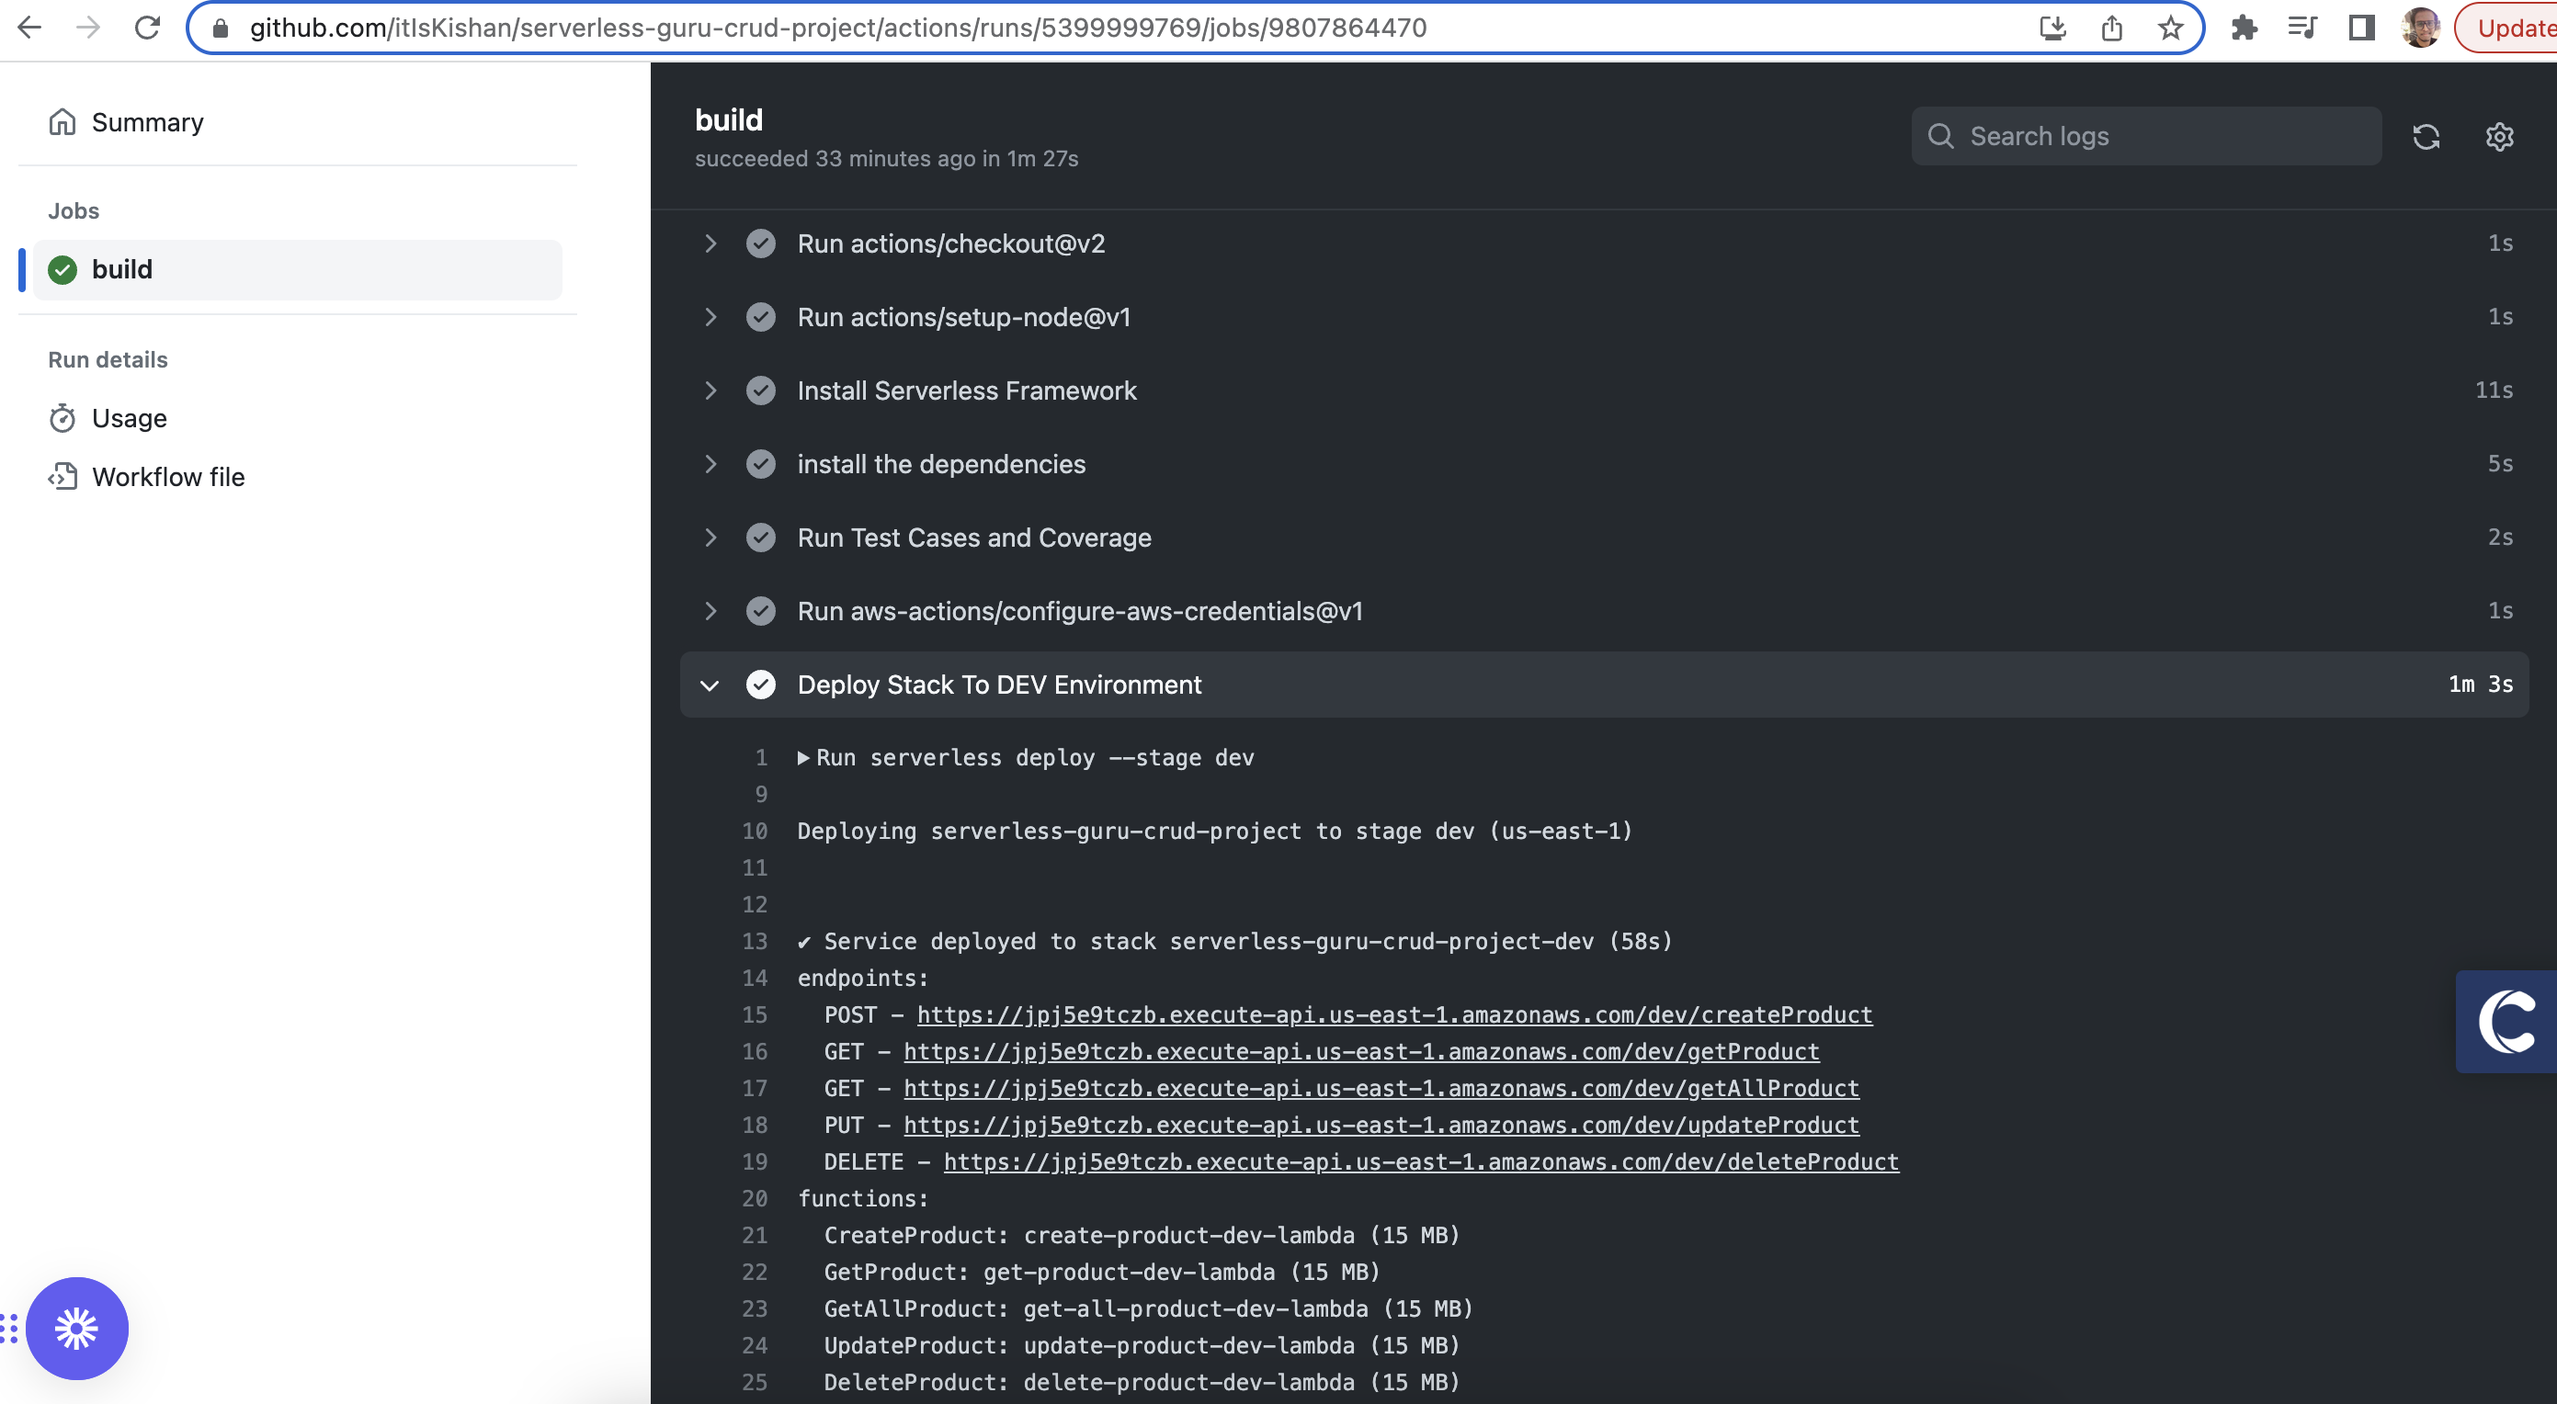
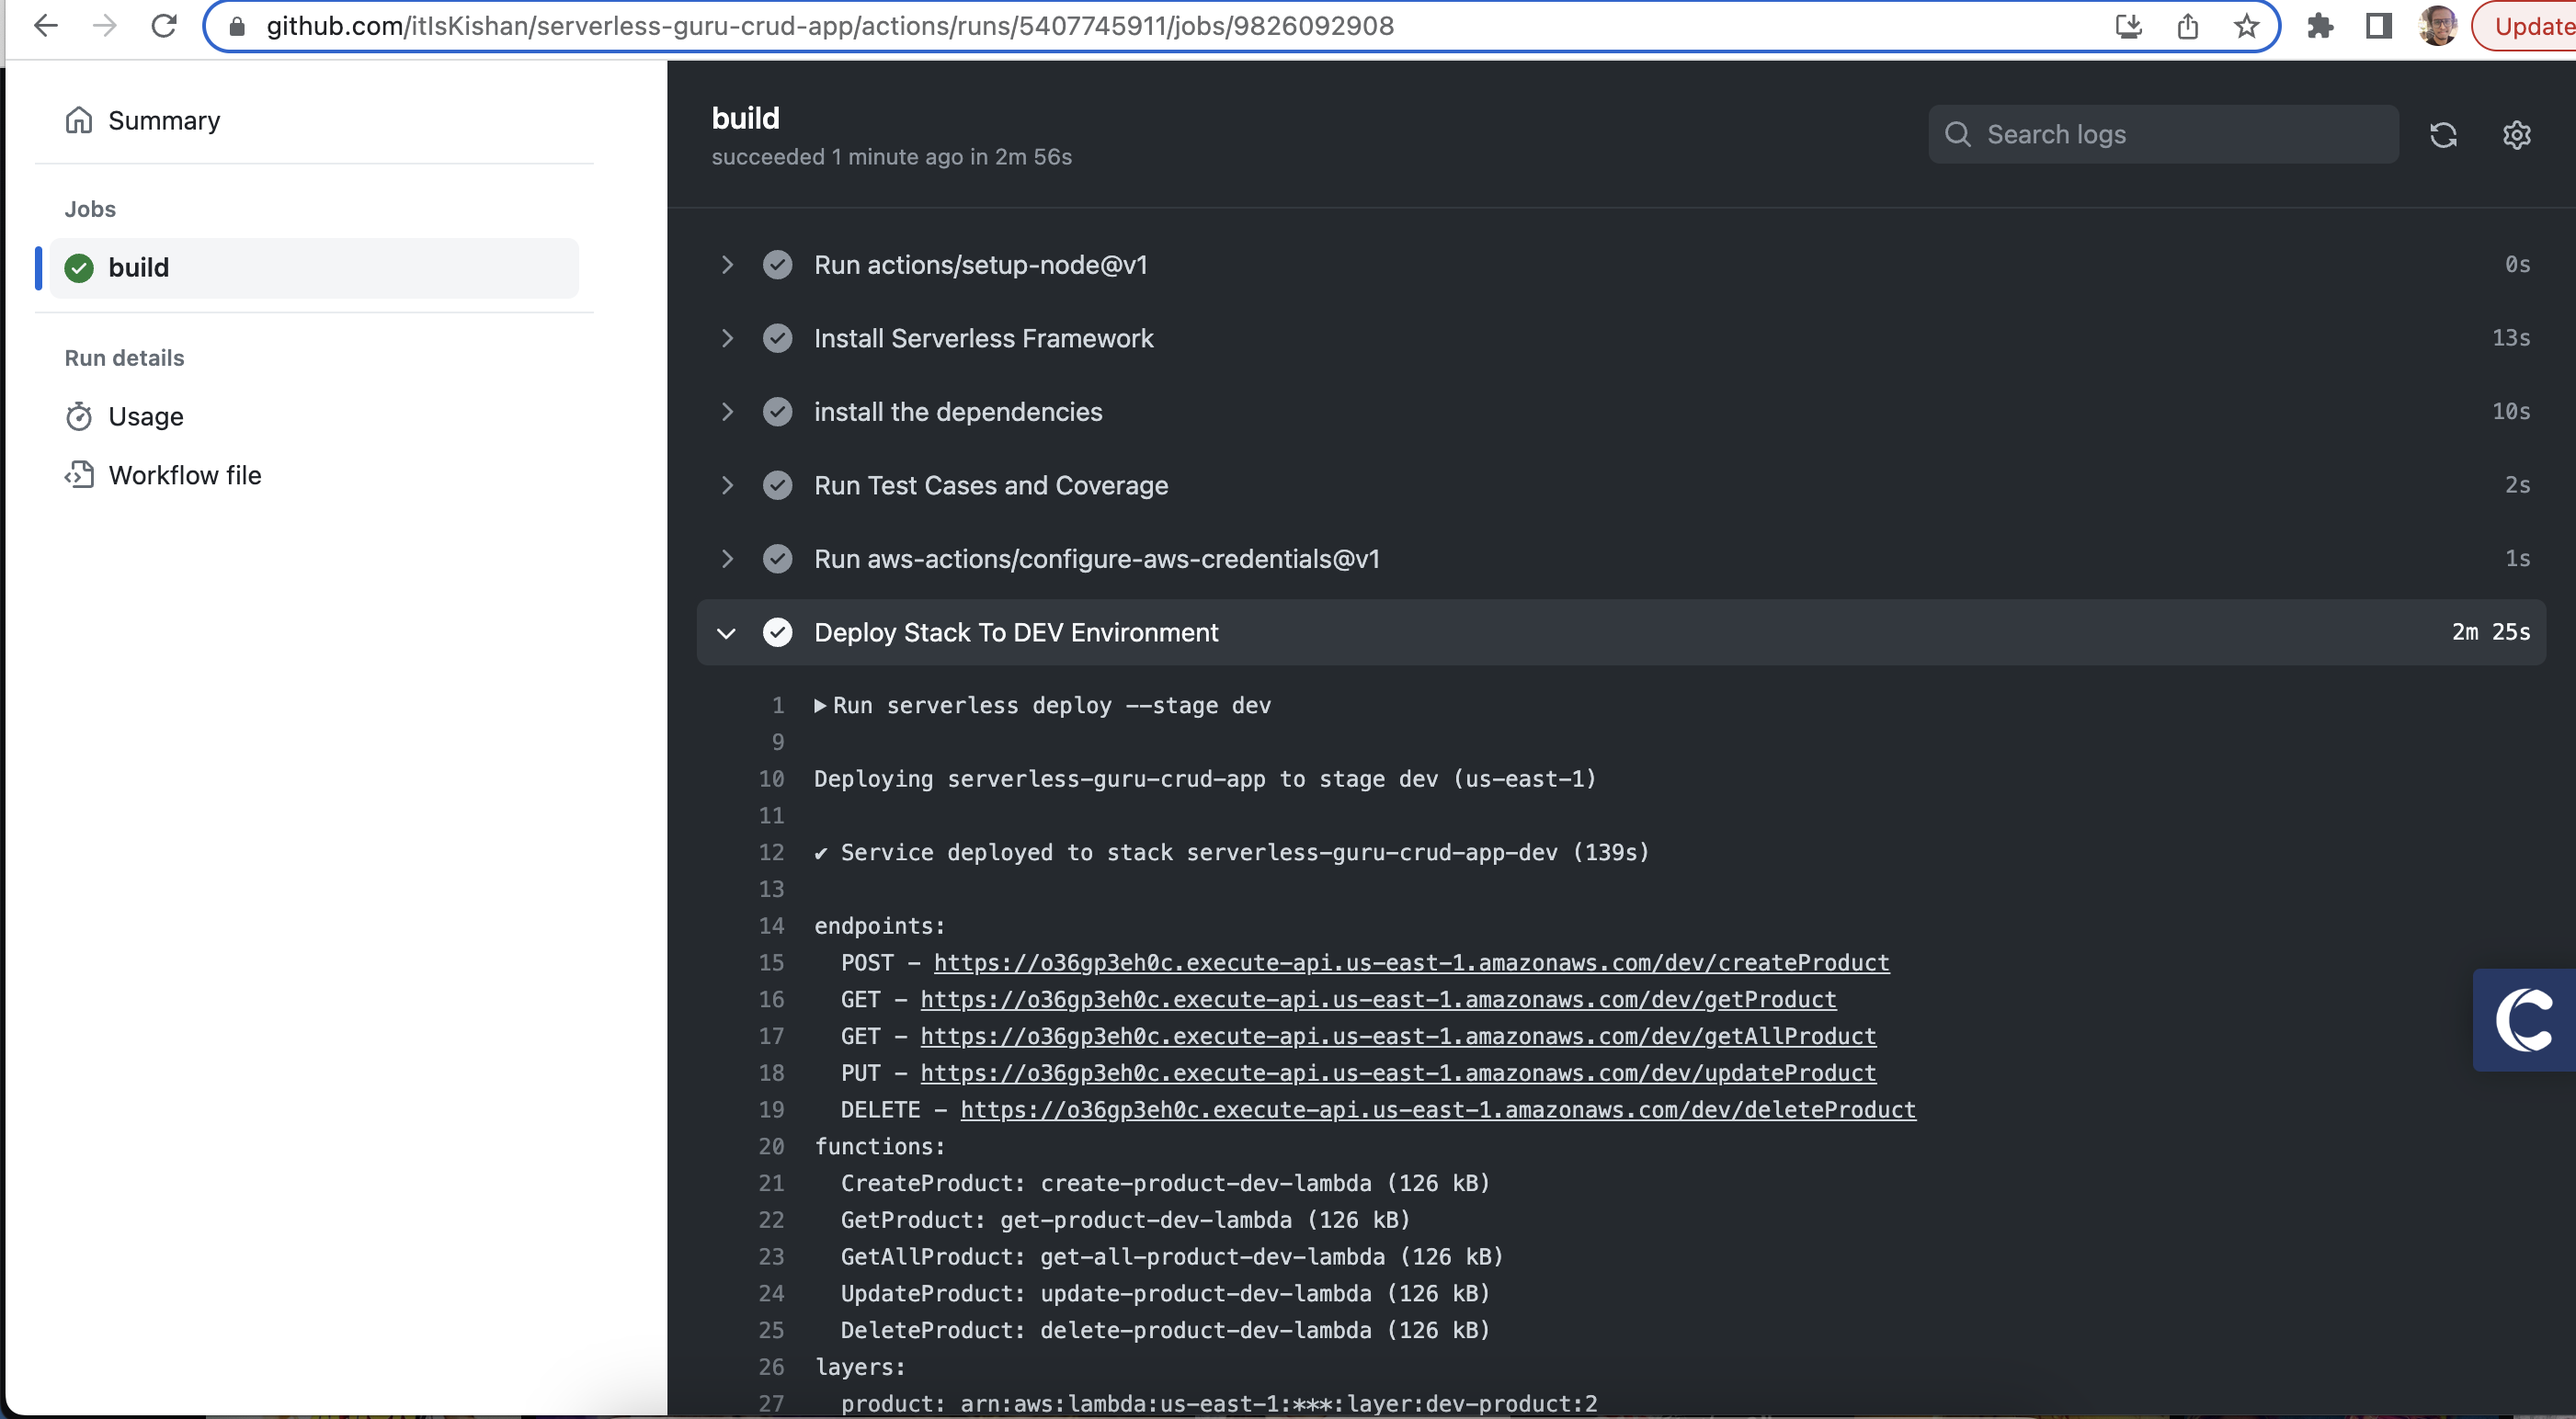
feat: added the dev ci/cd screenshot

diff --git a/README.md b/README.md
@@ -88,7 +88,7 @@ serverless deploy --stage prod
 If you want to use my API and test in postman use the below API:
 
 ```
-DEV: https://jpj5e9tczb.execute-api.us-east-1.amazonaws.com/dev/
+DEV: https://o36gp3eh0c.execute-api.us-east-1.amazonaws.com/dev/
 PROD: https://957o0k4up4.execute-api.us-east-1.amazonaws.com/prod/
 ```
 
